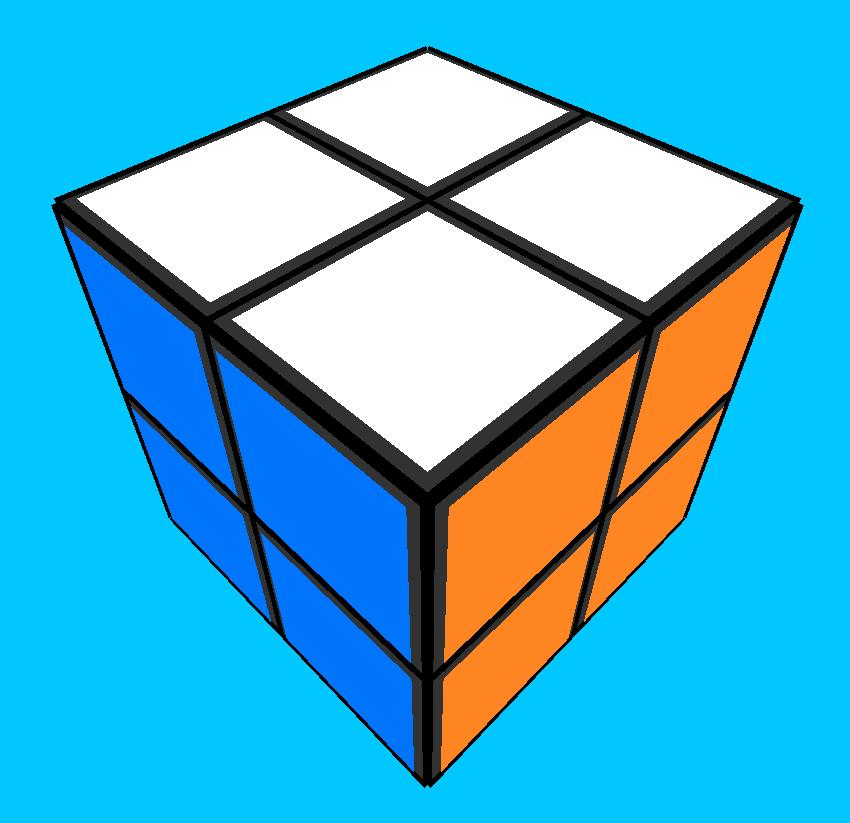
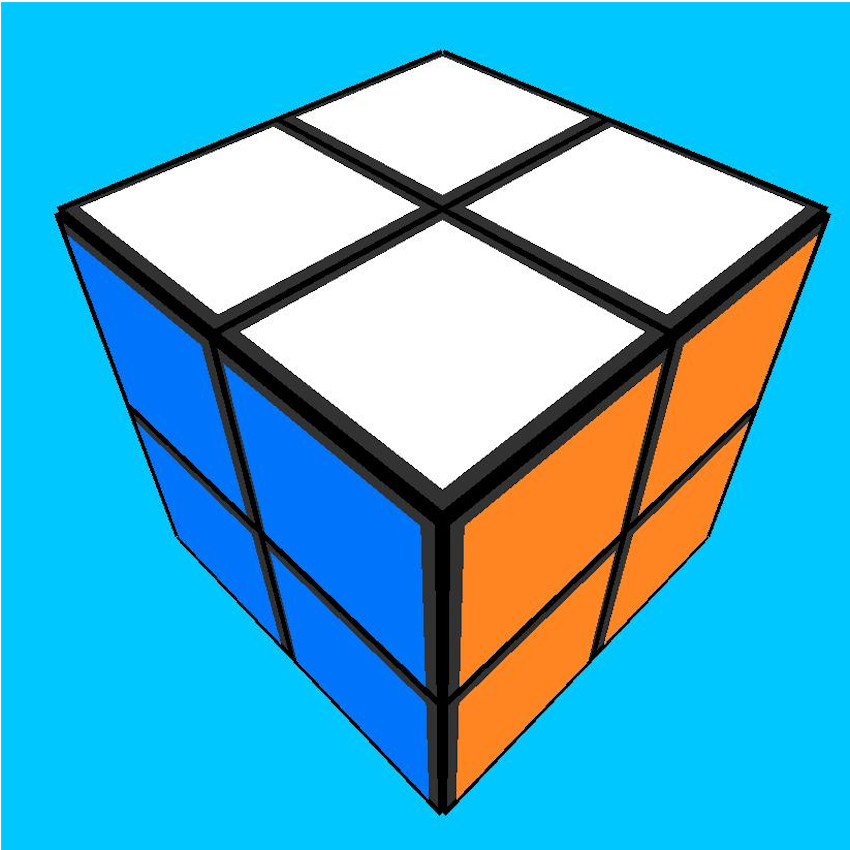
img remade to jpg format and squared shape

Changed region(s): [[0.0612, 0.0304, 0.9788, 0.9721], [0.2141, 0.6379, 0.2447, 0.6683], [0.0, 0.0, 0.0306, 0.0304]]

diff --git a/sketch.js b/sketch.js
@@ -41,10 +41,21 @@ var boxCoordRela = [0,0,0]; //Coord relative from there
 var s1 = function(sketch) {//main canvas
   sketch.preload = function() {
     canvasFont = sketch.loadFont("https://raw.githubusercontent.com/Jkutkut/JS-Rubik_Cube/v4.2/assets/grafitti.ttf");
+    
     canvasImg.bg = sketch.loadImage('https://raw.githubusercontent.com/Jkutkut/JS-Rubik_Cube/v4.2/assets/img/mainBG.jpg');
+    
     canvasImg.title = sketch.loadImage('https://raw.githubusercontent.com/Jkutkut/JS-Rubik_Cube/v4.2/assets/img/title.png');
     canvasImg.selectTC = sketch.loadImage('https://raw.githubusercontent.com/Jkutkut/JS-Rubik_Cube/v4.2/assets/img/select-type-cube.png');
+    
+    canvasImg.normal = sketch.loadImage('https://raw.githubusercontent.com/Jkutkut/JS-Rubik_Cube/v4.2/assets/img/cube-3x3.jpg');
+    canvasImg.mirror = sketch.loadImage('https://raw.githubusercontent.com/Jkutkut/JS-Rubik_Cube/v4.2/assets/img/cube-mirror.png');
+    canvasImg.invisible = sketch.loadImage('https://raw.githubusercontent.com/Jkutkut/JS-Rubik_Cube/v4.2/assets/img/cube-invisible.png');
+    canvasImg.stickerless = sketch.loadImage('https://raw.githubusercontent.com/Jkutkut/JS-Rubik_Cube/v4.2/assets/img/cube-stickerless.png');
+    
+    
+    
     canvasImg.github = sketch.loadImage('https://image.flaticon.com/icons/svg/25/25231.svg');
+    
   }
   /**
    * Setup of the Canvas 1
@@ -78,14 +89,24 @@ var s1 = function(sketch) {//main canvas
    */
   sketch.draw = function() { //main canvas
     sketch.background(canvasImg.bg);
-    sketch.image(canvasImg.title, ...relativePos([70, 60, 800, 250]))
-    sketch.image(canvasImg.selectTC, ...relativePos([500, 600, 800, 250]))
-    sketch.image(canvasImg.github, ...relativePos([1800, 960, 100, 100]));
+    //title
+    sketch.image(canvasImg.title, ...relativePos([510, 60, 900, 230]))
+    //select type cube
+    sketch.image(canvasImg.selectTC, ...relativePos([560, 320, 800, 100]))
+
+    sketch.image(canvasImg.normal, ...relativePos([560, 420, 100, 100]))
+    sketch.image(canvasImg.mirror, ...relativePos([660, 420, 100, 100]))
+    sketch.image(canvasImg.invisible, ...relativePos([760, 420, 100, 100]))
+    sketch.image(canvasImg.stickerless, ...relativePos([860, 420, 100, 100]))
+
 
     sketch.textFont(canvasFont);
     sketch.fill(0);
     sketch.textSize(60);
-    sketch.text("3 X 3 X 3", ...relativePos([500, 500]));
+    sketch.text("3 X 3 X 3", ...relativePos([500, 800]));
+
+    //github Icon
+    sketch.image(canvasImg.github, ...relativePos([1800, 960, 100, 100]));
   }
 
   /**
